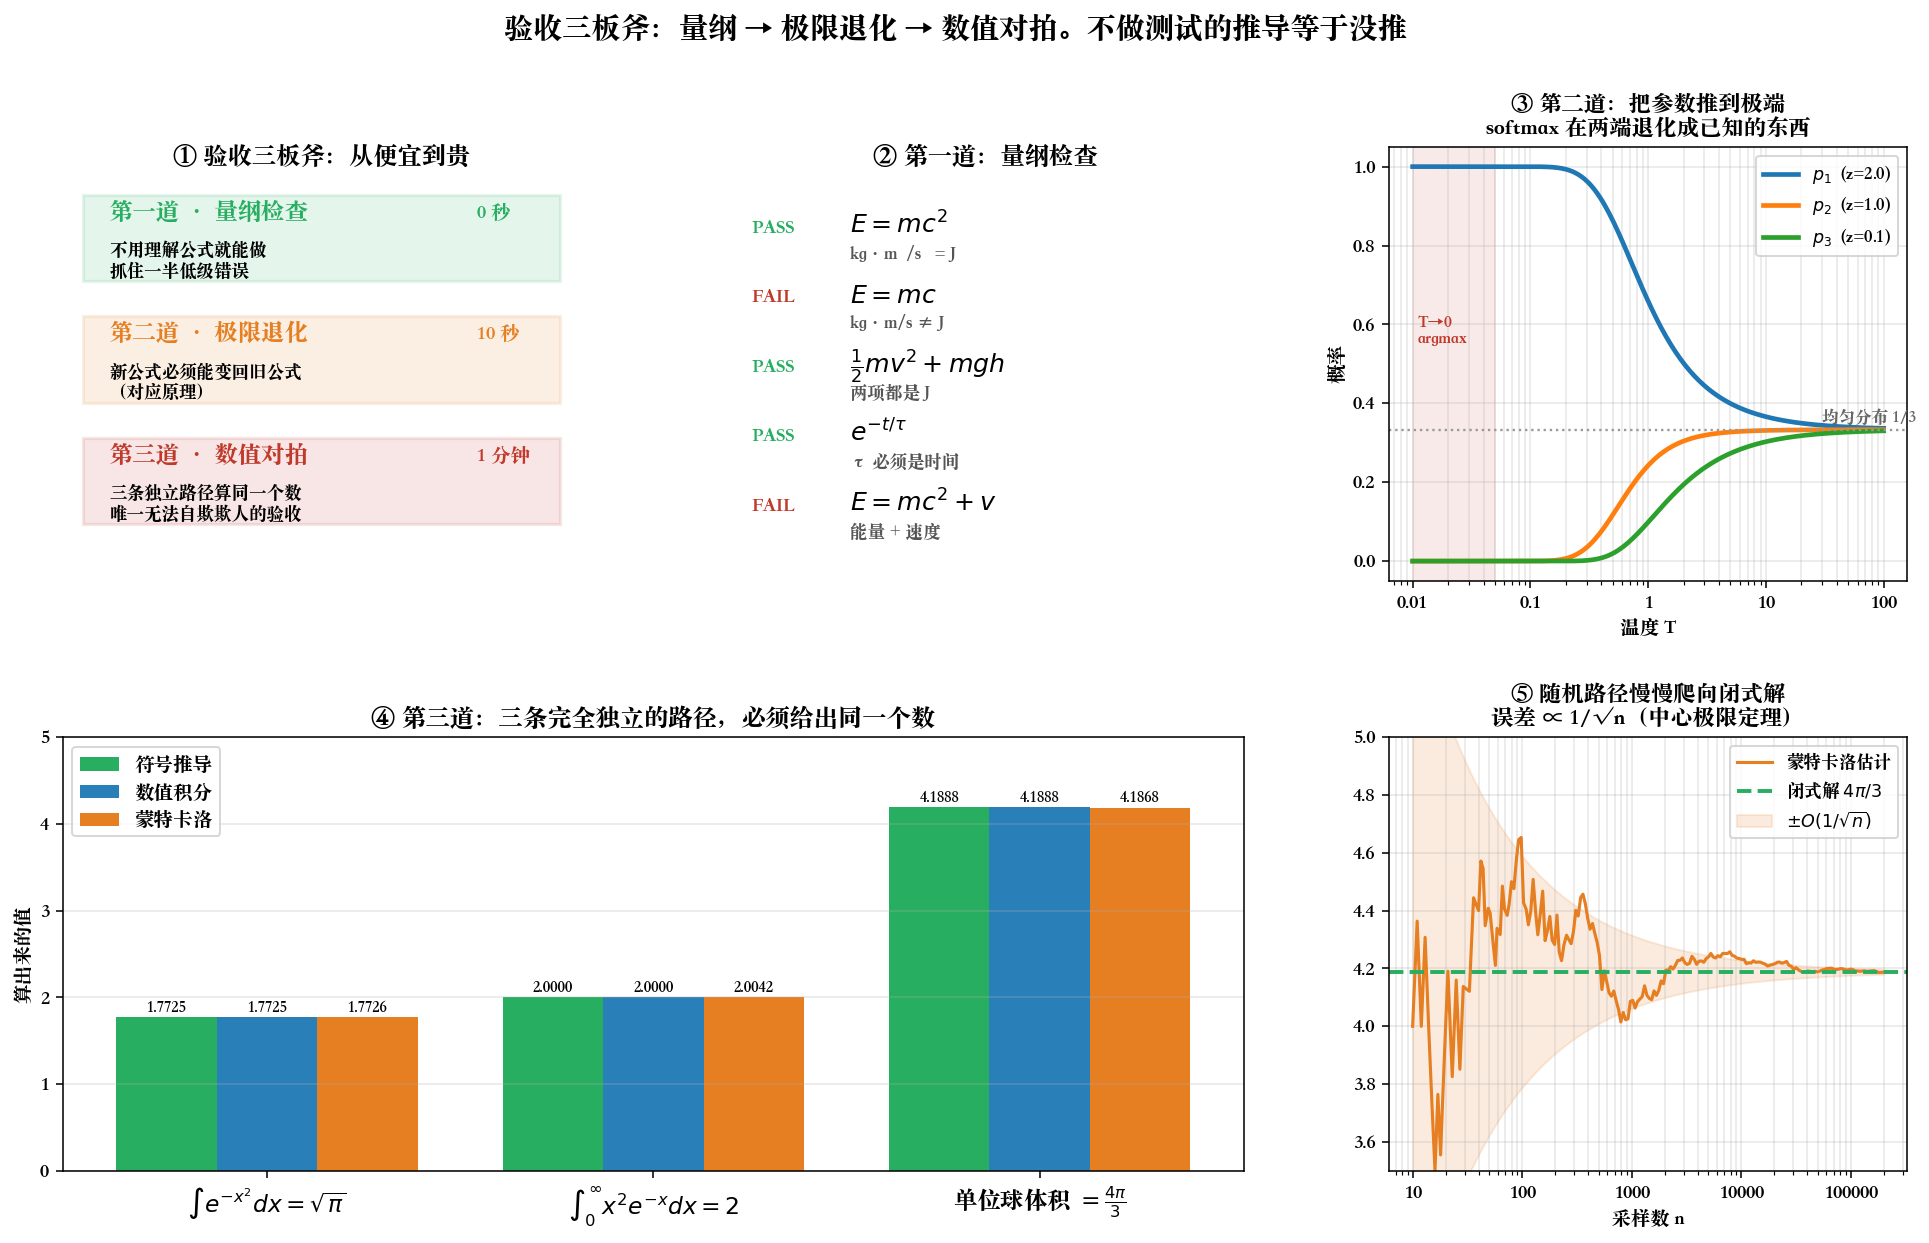
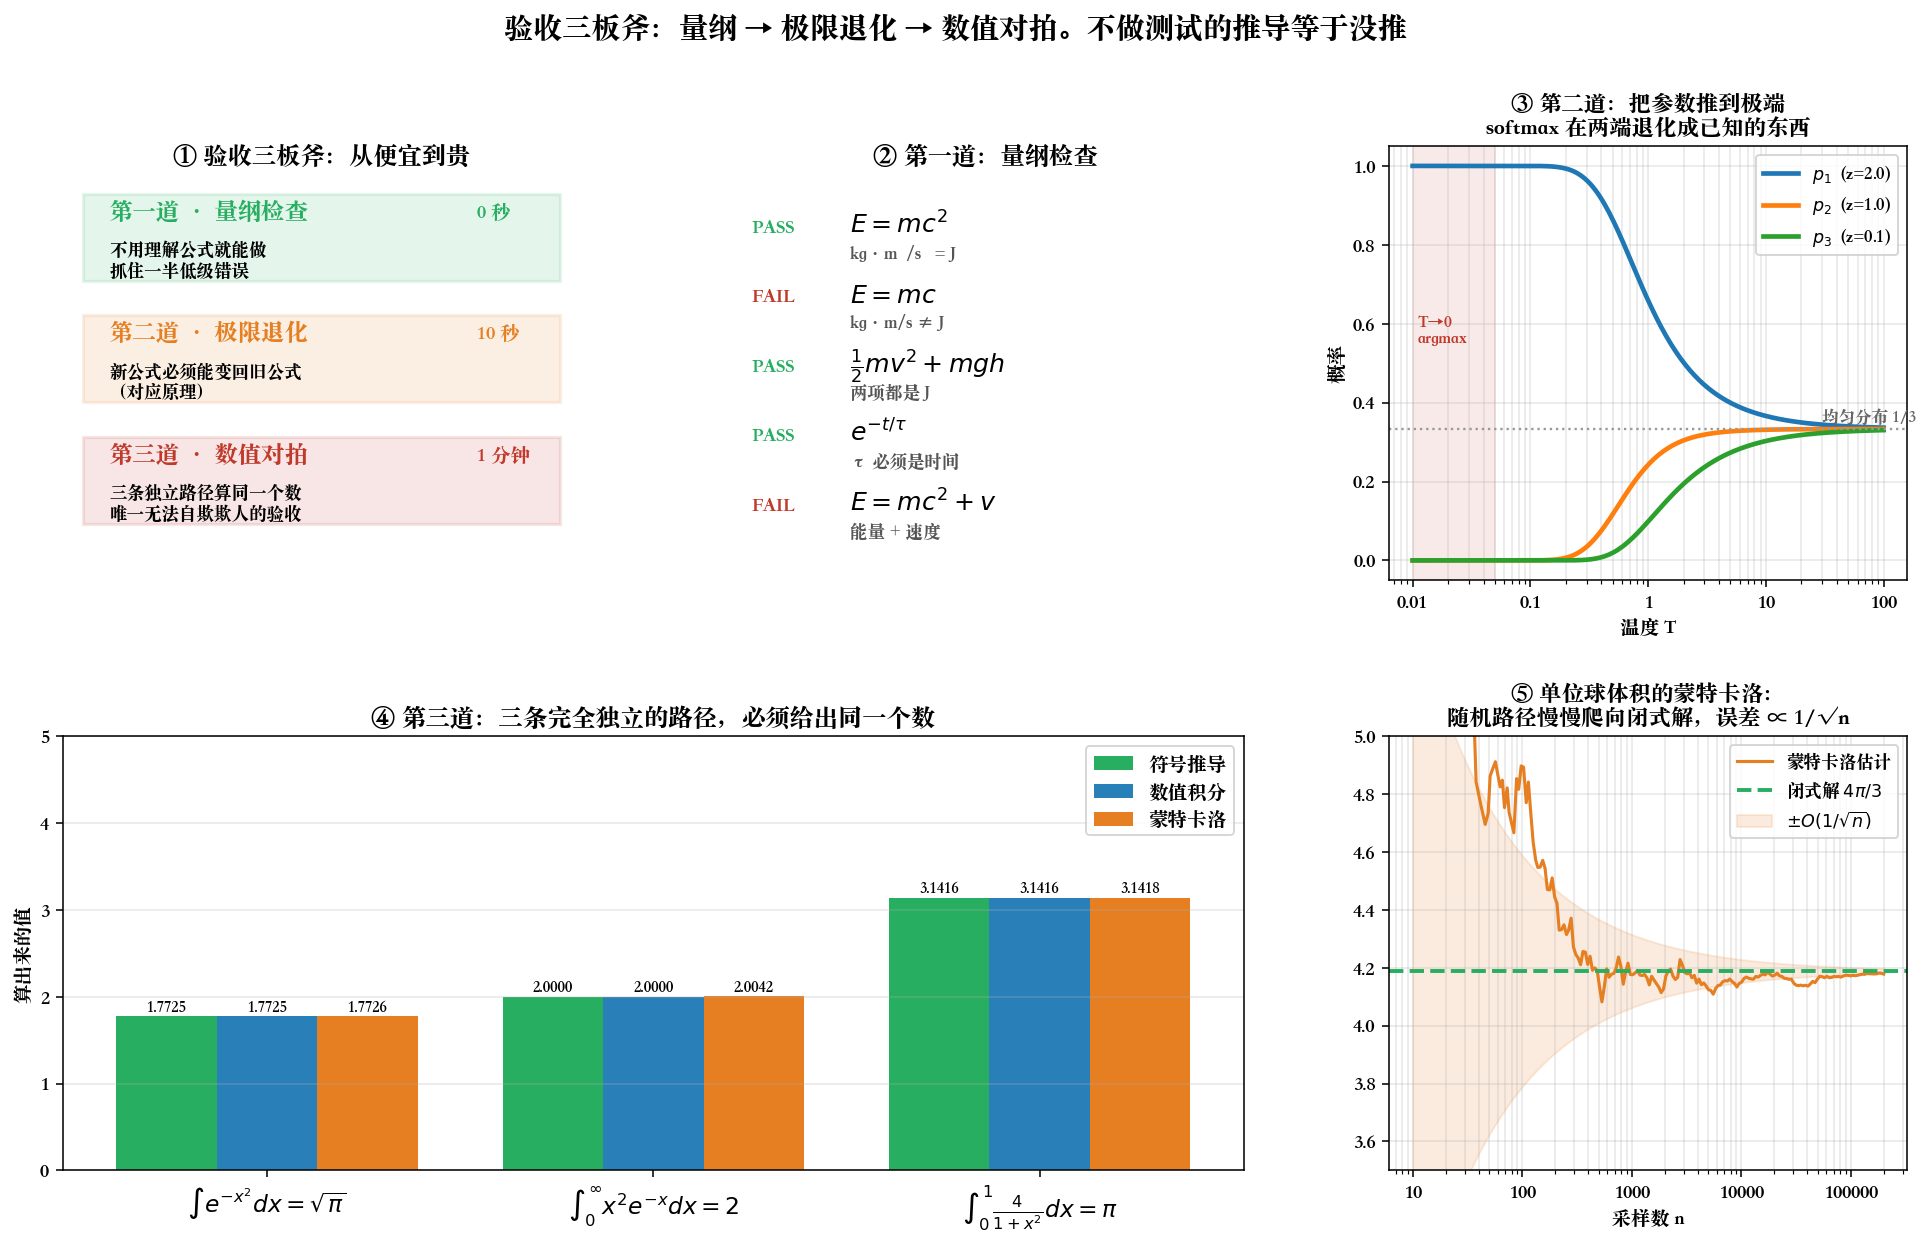
Add lean

diff --git a/ch00_98_deriving_formulas/identity_transform_tree.py b/ch00_98_deriving_formulas/identity_transform_tree.py
@@ -1,0 +1,233 @@
+"""identity_transform_tree.py
+================================================================================
+Chapter 0.98.1 · 恒等变换树：一个表达式的所有「等价长相」
+
+**推导只有两类合法动作：**
+    A 类 · 恒等变换   —— 换一件衣服，内容一模一样。可逆，SymPy 一行可验。
+    B 类 · 引入新信息 —— 往系统里塞进一条新事实。不可逆，必须报账。
+
+这个脚本只画 A 类：把同一个表达式的各种等价形式画成一张图，
+**每条边 = 一次合法的重写，且每条边都被 SymPy 逐一验证过 `simplify(u - v) == 0`。**
+
+看这张图要看出两件事：
+  1. 「化简」不是唯一方向 —— 图上没有哪个节点天然更「简」，
+     只有「对当前目标更有用」。配方形式适合求根，因式形式适合看零点，
+     展开形式适合求导，顶点式适合画图。
+  2. **推导 = 在这张图上找一条通往目标形状的路。**
+     所以推导的第一件事是「先盯着终点看」（Chapter 0.98.7 心法一）。
+
+主例：x² + px + q（以 p=-2, q=-3 为例，此时它恰好可因式分解）
+另有两个纯恒等变换的小图：三角恒等式、对数恒等式。
+
+运行：  python ch00_98_deriving_formulas/identity_transform_tree.py
+================================================================================
+"""
+
+from pathlib import Path
+
+import matplotlib.pyplot as plt
+import numpy as np
+import sympy as sp
+from matplotlib.patches import FancyArrowPatch
+
+x, p, q = sp.symbols('x p q')
+
+
+def build_graph():
+    """节点 = 等价形式；边 = 一次恒等变换。每条边都要被验证。"""
+    P, Q = -2, -3                                     # x² - 2x - 3 = (x-3)(x+1)
+    base = x ** 2 + P * x + Q
+
+    nodes = {
+        "expand": (base, "展开式", "适合求导、看系数", (.5, .88), "#2c3e50"),
+        "square": ((x + P / 2) ** 2 - P ** 2 / 4 + Q, "配方式（顶点式）",
+                   "适合求根、看对称轴/极值", (.16, .58), "#2980b9"),
+        "factor": (sp.factor(base), "因式分解式",
+                   "适合看零点", (.84, .58), "#27ae60"),
+        "vieta": (x ** 2 - (3 + (-1)) * x + 3 * (-1), "韦达式（根与系数）",
+                  "适合从根反写方程", (.84, .18), "#16a085"),
+        "horner": (x * (x - 2) - 3, "秦九韶 / Horner 式",
+                   "适合数值求值：乘法次数最少（1247）", (.16, .18), "#8e44ad"),
+        "diff": (sp.diff(base, x), "求导（不是恒等变换！）",
+                 "B 类动作：信息被改变了", (.5, .06), "#c0392b"),
+    }
+
+    edges = [
+        ("expand", "square", "配方", True),
+        ("expand", "factor", "因式分解", True),
+        ("factor", "vieta", "韦达定理", True),
+        ("square", "horner", "重排", True),
+        ("horner", "expand", "展开回去", True),
+        ("expand", "diff", "求导 d/dx", False),        # 故意放一条 B 类边做对比
+    ]
+
+    print("=" * 74)
+    print("恒等变换树：逐条边验证 simplify(u - v) == 0")
+    print("=" * 74)
+    verified = []
+    for a, b, label, is_identity in edges:
+        ea, eb = nodes[a][0], nodes[b][0]
+        diff = sp.simplify(sp.expand(ea) - sp.expand(eb))
+        ok = diff == 0
+        tag = "A 恒等" if is_identity else "B 非恒等"
+        mark = "PASS" if ok == is_identity else "?"
+        print(f"  [{tag:<8}] {label:<14} {a:>7} → {b:<7}  "
+              f"差 = {diff}   {mark}")
+        verified.append((a, b, label, is_identity, ok))
+    print("\n  注意最后一条：求导让差不为 0 —— 它**不是**恒等变换，")
+    print("        而是 B 类动作。图上用红色虚线区分。")
+    return nodes, verified
+
+
+def main():
+    nodes, edges = build_graph()
+
+    print("\n数值验收：所有 A 类节点在任意 x 上必须给出同一个值")
+    xs = np.linspace(-3, 5, 9)
+    vals = {}
+    for key, (expr, name, *_rest) in nodes.items():
+        f = sp.lambdify(x, expr, "numpy")
+        vals[key] = np.array(f(xs), dtype=float)
+    ref = vals["expand"]
+    for key in ("square", "factor", "vieta", "horner"):
+        print(f"  {key:<8} 与展开式的最大偏差 = {np.abs(vals[key]-ref).max():.2e}")
+    print(f"  {'diff':<8} 与展开式的最大偏差 = {np.abs(vals['diff']-ref).max():.2e}"
+          f"   ← 不是 0，因为它不是恒等变换")
+
+    fig = plt.figure(figsize=(17, 9.8))
+    gs = fig.add_gridspec(2, 3, height_ratios=[1.25, 1], hspace=.3, wspace=.26)
+
+    # ---- ① 恒等变换树 ------------------------------------------------------
+    ax = fig.add_subplot(gs[0, :2])
+    ax.set_xlim(0, 1)
+    ax.set_ylim(-.03, 1.06)
+    ax.axis("off")
+
+    for a, b, label, is_identity, ok in edges:
+        xa, ya = nodes[a][3]
+        xb, yb = nodes[b][3]
+        col = "#7f8c8d" if is_identity else "#c0392b"
+        style = "-" if is_identity else "--"
+        arr = FancyArrowPatch((xa, ya - .045), (xb, yb + .055),
+                              arrowstyle="-|>", mutation_scale=16,
+                              lw=1.8, color=col, linestyle=style,
+                              connectionstyle="arc3,rad=0.12")
+        ax.add_patch(arr)
+        ax.text((xa + xb) / 2 + .03, (ya + yb) / 2, label, fontsize=9.5,
+                color=col, ha="center",
+                bbox=dict(boxstyle="round,pad=.2", fc="white", ec="none", alpha=.85))
+
+    for key, (expr, name, why, (px, py), col) in nodes.items():
+        ax.text(px, py + .095, name, ha="center", fontsize=10.5,
+                fontweight="bold", color=col)
+        ax.text(px, py, f"${sp.latex(expr)}$", ha="center", va="center",
+                fontsize=15, color=col,
+                bbox=dict(boxstyle="round,pad=.35", fc="#fdf6e3", ec=col, lw=1.6))
+        ax.text(px, py - .085, why, ha="center", fontsize=8.4, color="#555")
+
+    ax.set_title("① 同一个表达式的等价形式图 —— 灰实线 = A 类恒等变换（可逆），"
+                 "红虚线 = B 类动作（不可逆）\n"
+                 "没有哪个节点天然更「简」，只有「对当前目标更有用」",
+                 fontsize=12.5, fontweight="bold")
+
+    # ---- ② 数值验收 --------------------------------------------------------
+    ax = fig.add_subplot(gs[0, 2])
+    xs_fine = np.linspace(-3, 5, 400)
+    styles = [("expand", 5, "-", "#2c3e50"), ("square", 3, "--", "#2980b9"),
+              ("factor", 2, ":", "#27ae60"), ("horner", 1.2, "-.", "#8e44ad")]
+    for key, lw, ls, col in styles:
+        f = sp.lambdify(x, nodes[key][0], "numpy")
+        ax.plot(xs_fine, f(xs_fine), lw=lw, ls=ls, color=col, label=nodes[key][1])
+    f = sp.lambdify(x, nodes["diff"][0], "numpy")
+    ax.plot(xs_fine, f(xs_fine) * np.ones_like(xs_fine), lw=2, color="#c0392b",
+            label="求导后（B 类，不重合）")
+    ax.axhline(0, color="k", lw=.8)
+    ax.set_title("② 四条 A 类曲线完全重合，\nB 类那条不重合", fontsize=11.5,
+                 fontweight="bold")
+    ax.legend(fontsize=8.5)
+    ax.grid(alpha=.3)
+
+    # ---- ③ 三角恒等式小图 --------------------------------------------------
+    ax = fig.add_subplot(gs[1, 0])
+    ax.axis("off")
+    th = sp.Symbol('theta')
+    tri = [
+        (sp.sin(2 * th), r"$\sin 2\theta$"),
+        (2 * sp.sin(th) * sp.cos(th), r"$2\sin\theta\cos\theta$"),
+        (sp.cos(sp.pi / 2 - 2 * th), r"$\cos(\frac{\pi}{2}-2\theta)$"),
+        ((sp.exp(sp.I * 2 * th) - sp.exp(-sp.I * 2 * th)) / (2 * sp.I),
+         r"$\frac{e^{2i\theta}-e^{-2i\theta}}{2i}$"),
+    ]
+    ax.text(.5, .95, "③ 三角恒等式：四种长相，同一个函数", ha="center",
+            transform=ax.transAxes, fontsize=11.5, fontweight="bold")
+    base = tri[0][0]
+    for i, (expr, tex) in enumerate(tri):
+        y = .74 - i * .175
+        ok = sp.simplify(sp.expand(expr - base).rewrite(sp.sin)) == 0
+        ax.text(.06, y, "PASS" if ok else "FAIL", transform=ax.transAxes,
+                fontsize=9.5, fontweight="bold", color="#27ae60" if ok else "#c0392b")
+        ax.text(.28, y, tex, transform=ax.transAxes, fontsize=15)
+    ax.text(.5, .04, "欧拉公式那一行说明：三角函数只是指数函数换了件衣服",
+            ha="center", transform=ax.transAxes, fontsize=8.8,
+            style="italic", color="#555")
+
+    # ---- ④ 对数恒等式小图 --------------------------------------------------
+    ax = fig.add_subplot(gs[1, 1])
+    ax.axis("off")
+    a_, b_ = sp.symbols('a b', positive=True)
+    logs = [
+        (sp.log(a_ * b_), r"$\log(ab)$"),
+        (sp.log(a_) + sp.log(b_), r"$\log a + \log b$"),
+        (sp.log(a_ ** 2 * b_ ** 2) / 2, r"$\frac{1}{2}\log(a^2b^2)$"),
+        (-sp.log(1 / (a_ * b_)), r"$-\log\frac{1}{ab}$"),
+    ]
+    ax.text(.5, .95, "④ 对数恒等式：同一条群同态的四种写法", ha="center",
+            transform=ax.transAxes, fontsize=11.5, fontweight="bold")
+    for i, (expr, tex) in enumerate(logs):
+        y = .74 - i * .175
+        ok = sp.simplify(sp.expand_log(expr - sp.log(a_ * b_), force=True)) == 0
+        ax.text(.06, y, "PASS" if ok else "FAIL", transform=ax.transAxes,
+                fontsize=9.5, fontweight="bold", color="#27ae60" if ok else "#c0392b")
+        ax.text(.28, y, tex, transform=ax.transAxes, fontsize=15)
+    ax.text(.5, .04, r"背后是同一件事：$(\mathbb{R}^+,\times)\to(\mathbb{R},+)$ 的群同态",
+            ha="center", transform=ax.transAxes, fontsize=8.8,
+            style="italic", color="#555")
+
+    # ---- ⑤ 两类动作对照 ----------------------------------------------------
+    ax = fig.add_subplot(gs[1, 2])
+    ax.axis("off")
+    ax.text(.5, .95, "⑤ 推导只有两类合法动作", ha="center",
+            transform=ax.transAxes, fontsize=12, fontweight="bold")
+    for i, (tag, name, feats, col) in enumerate([
+        ("A", "恒等变换（保真重写）",
+         ["信息量：不变", "可逆：是", "验收：simplify(差) == 0",
+          "例：移项、配方、通分、换元、取对数"], "#2980b9"),
+        ("B", "引入新信息",
+         ["信息量：增加", "可逆：否", "验收：报出前提与误差阶",
+          "例：物理定律、守恒律、边界条件、近似"], "#c0392b"),
+    ]):
+        y0 = .78 - i * .44
+        ax.add_patch(plt.Rectangle((.03, y0 - .32), .94, .38, transform=ax.transAxes,
+                                   fc=col, alpha=.1, ec=col, lw=1.6))
+        ax.text(.09, y0, f"{tag} · {name}", transform=ax.transAxes,
+                fontsize=11, fontweight="bold", color=col)
+        for j, f in enumerate(feats):
+            ax.text(.11, y0 - .075 - j * .066, "· " + f, transform=ax.transAxes,
+                    fontsize=8.8)
+
+    fig.suptitle("恒等变换树：推导 = 在等价形式的图上，找一条通往目标形状的路",
+                 fontsize=15, fontweight="bold")
+    out = Path(__file__).with_suffix(".png")
+    fig.savefig(out, dpi=140, bbox_inches="tight")
+    print(f"\n图已保存到 {out}")
+
+    print("\n心法：先盯着终点看 —— 不知道目标长什么样，就不知道该往哪化简。")
+
+
+if __name__ == "__main__":
+    plt.rcParams["font.sans-serif"] = [
+        "PingFang SC", "Heiti SC", "Songti SC",
+        "Noto Sans CJK SC", "WenQuanYi Zen Hei", "Arial Unicode MS",
+    ]
+    plt.rcParams["axes.unicode_minus"] = False
+    main()

diff --git a/ch00_98_deriving_formulas/derivation_crosscheck.py b/ch00_98_deriving_formulas/derivation_crosscheck.py
@@ -21,7 +21,7 @@ Chapter 0.98.6 · 验收三板斧：怎么知道自己推对了
     你可以说服自己「这一步应该没问题」，但你说服不了一个不同意的数字。
 
 本脚本把这三板斧做成一个可复用的框架，并用四个公式演示：
-    ∫e^{-x²}dx = √π  /  ∫₀^∞ x²e^{-x}dx = 2  /  球体积 4πr³/3  /  Var[X] = E[X²]-μ²
+    ∫e^{-x²}dx = √π  /  ∫₀^∞ x²e^{-x}dx = 2  /  ∫₀¹4/(1+x²)dx = π  /  Var[X] = E[X²]-μ²
 
 运行：  python ch00_98_deriving_formulas/derivation_crosscheck.py
 ================================================================================
@@ -235,7 +235,7 @@ def main():
     ax.xaxis.set_major_formatter(PLAIN)
     ax.set_xlabel("采样数 n")
     ax.set_ylim(3.5, 5)
-    ax.set_title("⑤ 随机路径慢慢爬向闭式解\n误差 ∝ 1/√n（中心极限定理）",
+    ax.set_title("⑤ 单位球体积的蒙特卡洛：\n随机路径慢慢爬向闭式解，误差 ∝ 1/√n",
                  fontsize=11.5, fontweight="bold")
     ax.legend(fontsize=9)
     ax.grid(alpha=.3, which="both")
